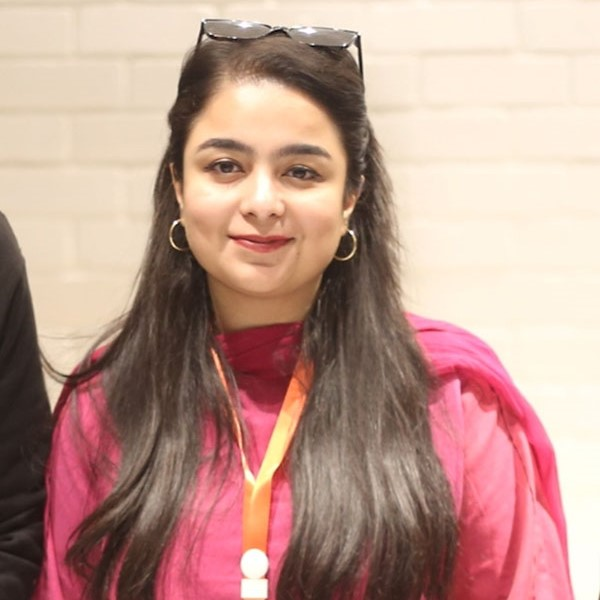
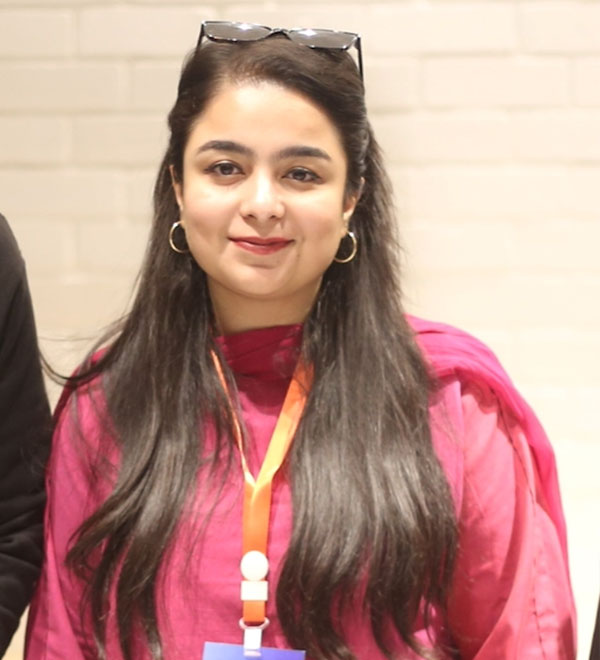
👌 IMPROVE: Speakers

diff --git a/src/Sections/About/About.js b/src/Sections/About/About.js
@@ -7,10 +7,19 @@ import { SOCIALS } from '../../module/Gernal';
 import { faLinkedin } from "@fortawesome/free-brands-svg-icons";
 import { FontAwesomeIcon } from '@fortawesome/react-fontawesome';
 import HufsaMunawar from '../../assets/Speakers/Hufsa-Munawar.jpg';
-import SaadHamid from '../../assets/Speakers/saad-hamid.jpg';
+import SaadHamid from '../../assets/Speakers/Saad Hamid.jpeg';
 import WajahatKarim from '../../assets/Speakers/wajahat-karim.jpeg';
-import WaleedArshad from '../../assets/Speakers/Waleed Arshad.jpg';
+import WaleedArshad from '../../assets/Speakers/Waleed Arshad.jpeg';
 import EricBhatti from '../../assets/Speakers/Eric Bhatti.jpg';
+import AimanSaeed from '../../assets/Speakers/Aiman Saeed.jpeg';
+import AdilShehzad from '../../assets/Speakers/Adil Shehzad.jpg';
+import Aqsakausar from '../../assets/Speakers/Aqsa kausar.jpeg';
+import HiraTariq from '../../assets/Speakers/Hira Tariq.jpeg';
+import MuhammadAsimKhaskheli from '../../assets/Speakers/Muhammad Asim Khaskheli.jpg';
+import MuhammadBinMasood from '../../assets/Speakers/Muhammad Bin Masood.jpeg';
+import OsamaRajput from '../../assets/Speakers/Osama Rajput.jpeg';
+import SakinaAbbas from '../../assets/Speakers/Sakina Abbas.jpeg';
+import TalalAthar from '../../assets/Speakers/Talal Athar.jpeg';
 import * as Add2Calendar from "add2calendar";
 import 'add2calendar/css/add2calendar.css';
 
@@ -70,9 +79,10 @@ const About = () => {
                 </div>
             </div>
             <div className='hackathon_workshops'>
-                <h1>Sessions & Workshops</h1>
+                <div id='Workshops'>
+                    <h1>Sessions & Workshops</h1>
+                </div>
 
-                {/* https://gdsc.community.dev/j/zdsjwhba7byy3/ */}
                 <div className='workshop_schedule'>
                     <div className='workshop'>
                         <div className='workshop_name ws'>
@@ -272,7 +282,9 @@ const About = () => {
                 </div>
             </div>
             <div className='hackthon_speakers'>
-                <h1>Speakers</h1>
+                <div id='speakers'>
+                    <h1>Speakers</h1>
+                </div>
                 <div className='solutionfest_speakers'>
                     <div className='speaker'>
                         <img className='speaker_img' src={HufsaMunawar} alt="" />
@@ -323,6 +335,96 @@ const About = () => {
                             </a>
                         </p>
                         <p className='speaker_desc'>VP Engineering at Sastaticket.pk | GDE Firebase</p>
+                    </div>
+                    <div className='speaker'>
+                        <img className='speaker_img' src={AimanSaeed} alt="" />
+                        <p className='speaker_name'>
+                            Aiman Saeed&nbsp;
+                            <a href="https://www.linkedin.com/in/aimansaeed/" target="_blank" rel="noreferrer">
+                                <FontAwesomeIcon icon={faLinkedin} />
+                            </a>
+                        </p>
+                        <p className='speaker_desc'>Allianz | ESMT | OYW Ambassador | Google #IamRemarkable</p>
+                    </div>
+                    <div className='speaker'>
+                        <img className='speaker_img' src={AdilShehzad} alt="" />
+                        <p className='speaker_name'>
+                            Adil Shehzad&nbsp;
+                            <a href="https://www.linkedin.com/in/adilshehzad7/" target="_blank" rel="noreferrer">
+                                <FontAwesomeIcon icon={faLinkedin} />
+                            </a>
+                        </p>
+                        <p className='speaker_desc'>DevOps Engineer @Strategic Systems International | GitHub Campus Expert</p>
+                    </div>
+                    <div className='speaker'>
+                        <img className='speaker_img' src={Aqsakausar} alt="" />
+                        <p className='speaker_name'>
+                            Aqsa Kausar&nbsp;
+                            <a href="https://www.linkedin.com/in/aqsa-kausar/" target="_blank" rel="noreferrer">
+                                <FontAwesomeIcon icon={faLinkedin} />
+                            </a>
+                        </p>
+                        <p className='speaker_desc'>Tech Lead (ML) at Red Buffer, Google Developer Expert (ML)</p>
+                    </div>
+                    <div className='speaker'>
+                        <img className='speaker_img' src={HiraTariq} alt="" />
+                        <p className='speaker_name'>
+                            Hira Tariq&nbsp;
+                            <a href="https://www.linkedin.com/in/hirat97/" target="_blank" rel="noreferrer">
+                                <FontAwesomeIcon icon={faLinkedin} />
+                            </a>
+                        </p>
+                        <p className='speaker_desc'>Building Communities @NICK | GDG Kolachi | Assembly F</p>
+                    </div>
+                    <div className='speaker'>
+                        <img className='speaker_img' src={MuhammadAsimKhaskheli} alt="" />
+                        <p className='speaker_name'>
+                            Asim Khaskheli&nbsp;
+                            <a href="https://www.linkedin.com/in/asim-khaskheli/" target="_blank" rel="noreferrer">
+                                <FontAwesomeIcon icon={faLinkedin} />
+                            </a>
+                        </p>
+                        <p className='speaker_desc'>Associate Product Manager @OneScreen | Founder & President Hack Club NUST</p>
+                    </div>
+                    <div className='speaker'>
+                        <img className='speaker_img' src={MuhammadBinMasood} alt="" />
+                        <p className='speaker_name'>
+                            Muhammad Bin Masood&nbsp;
+                            <a href="https://www.linkedin.com/in/muhammadbinmasood/" target="_blank" rel="noreferrer">
+                                <FontAwesomeIcon icon={faLinkedin} />
+                            </a>
+                        </p>
+                        <p className='speaker_desc'>Training and Development Lead @Airlift Technologies</p>
+                    </div>
+                    <div className='speaker'>
+                        <img className='speaker_img' src={OsamaRajput} alt="" />
+                        <p className='speaker_name'>
+                            Osama Rajput&nbsp;
+                            <a href="https://www.linkedin.com/in/rajputosama/" target="_blank" rel="noreferrer">
+                                <FontAwesomeIcon icon={faLinkedin} />
+                            </a>
+                        </p>
+                        <p className='speaker_desc'>Artificial Intelligence Engineer @NayaPay</p>
+                    </div>
+                    <div className='speaker'>
+                        <img className='speaker_img' src={SakinaAbbas} alt="" />
+                        <p className='speaker_name'>
+                            Sakina Abbas&nbsp;
+                            <a href="https://www.linkedin.com/in/sakina-abbas/" target="_blank" rel="noreferrer">
+                                <FontAwesomeIcon icon={faLinkedin} />
+                            </a>
+                        </p>
+                        <p className='speaker_desc'>ReacTree CEO & Co-Founder | Google Developer Expert Flutter</p>
+                    </div>
+                    <div className='speaker'>
+                        <img className='speaker_img' src={TalalAthar} alt="" />
+                        <p className='speaker_name'>
+                            Talal Athar&nbsp;
+                            <a href="https://www.linkedin.com/in/talalathar/" target="_blank" rel="noreferrer">
+                                <FontAwesomeIcon icon={faLinkedin} />
+                            </a>
+                        </p>
+                        <p className='speaker_desc'>Senior Product Designer @Oraan & YouTuber</p>
                     </div>
                 </div>
             </div>

diff --git a/src/Sections/About/About.css b/src/Sections/About/About.css
@@ -112,6 +112,20 @@
   margin: 10px;
   box-shadow: rgba(0, 0, 0, 0.35) 0px 5px 15px;
 }
+#Workshops,
+#speakers {
+  width: 360px;
+  height: 70px;
+  background: #a01254;
+  border-radius: 3px;
+  -webkit-box-shadow: 5px 10px 12px rgb(0 0 0 / 70%);
+  box-shadow: 5px 10px 12px rgb(0 0 0 / 70%);
+  display: flex;
+  padding-left: 20px;
+  align-items: center;
+  text-align: left;
+  margin-left: -80px;
+}
 .workshop_title {
   font-weight: bold;
   color: #ed58ff;
@@ -126,6 +140,9 @@
   justify-content: space-between;
   align-items: center;
 }
+#speakers {
+  margin-left: -130px;
+}
 .solutionfest_speakers {
   padding: 50px 0px;
   display: grid;
@@ -139,6 +156,19 @@
   box-shadow: rgba(50, 50, 93, 0.25) 0px 50px 100px -20px,
     rgba(0, 0, 0, 0.3) 0px 30px 60px -30px,
     rgba(10, 37, 64, 0.35) 0px -2px 6px 0px inset;
+  margin-bottom: 20px;
+  transition: all 0.5s;
+}
+.speaker:hover {
+  transform: scale(1.1);
+  -webkit-box-shadow: rgba(0, 0, 0, 0.8) 0px 5px 15px,
+    inset rgba(0, 0, 0, 0.15) 0px -10px 20px;
+  -moz-box-shadow: rgba(0, 0, 0, 0.8) 0px 5px 15px,
+    inset rgba(0, 0, 0, 0.15) 0px -10px 20px;
+  -o-box-shadow: rgba(0, 0, 0, 0.8) 0px 5px 15px,
+    inset rgba(0, 0, 0, 0.15) 0px -10px 20px;
+  box-shadow: rgba(0, 0, 0, 0.8) 0px 5px 15px,
+    inset rgba(0, 0, 0, 0.15) 0px -10px 20px;
 }
 .speaker_img {
   width: 200px;
@@ -150,8 +180,8 @@
   padding: 10px;
 }
 .speaker_desc {
-  padding-bottom: 10px;
-  color: #ed58ff;
+  padding: 0px 10px 10px 10px;
+  color: #ca58ff;
 }
 .a2cldr {
   width: auto;
@@ -225,7 +255,13 @@
   .hackthon_speakers h1 {
     font-size: 26px;
   }
-  .hackathon_workshops > h1 {
+  #Workshops,
+  #speakers {
+    margin-left: -30px;
+    width: 300px;
+    height: 60px;
+  }
+  .hackathon_workshops > #Workshops > h1 {
     font-size: 26px;
   }
   .workshop_schedule {

diff --git a/src/App.css b/src/App.css
@@ -2,4 +2,5 @@
   position: fixed;
   top: 0;
   width: 100%;
+  z-index: 1;
 }
